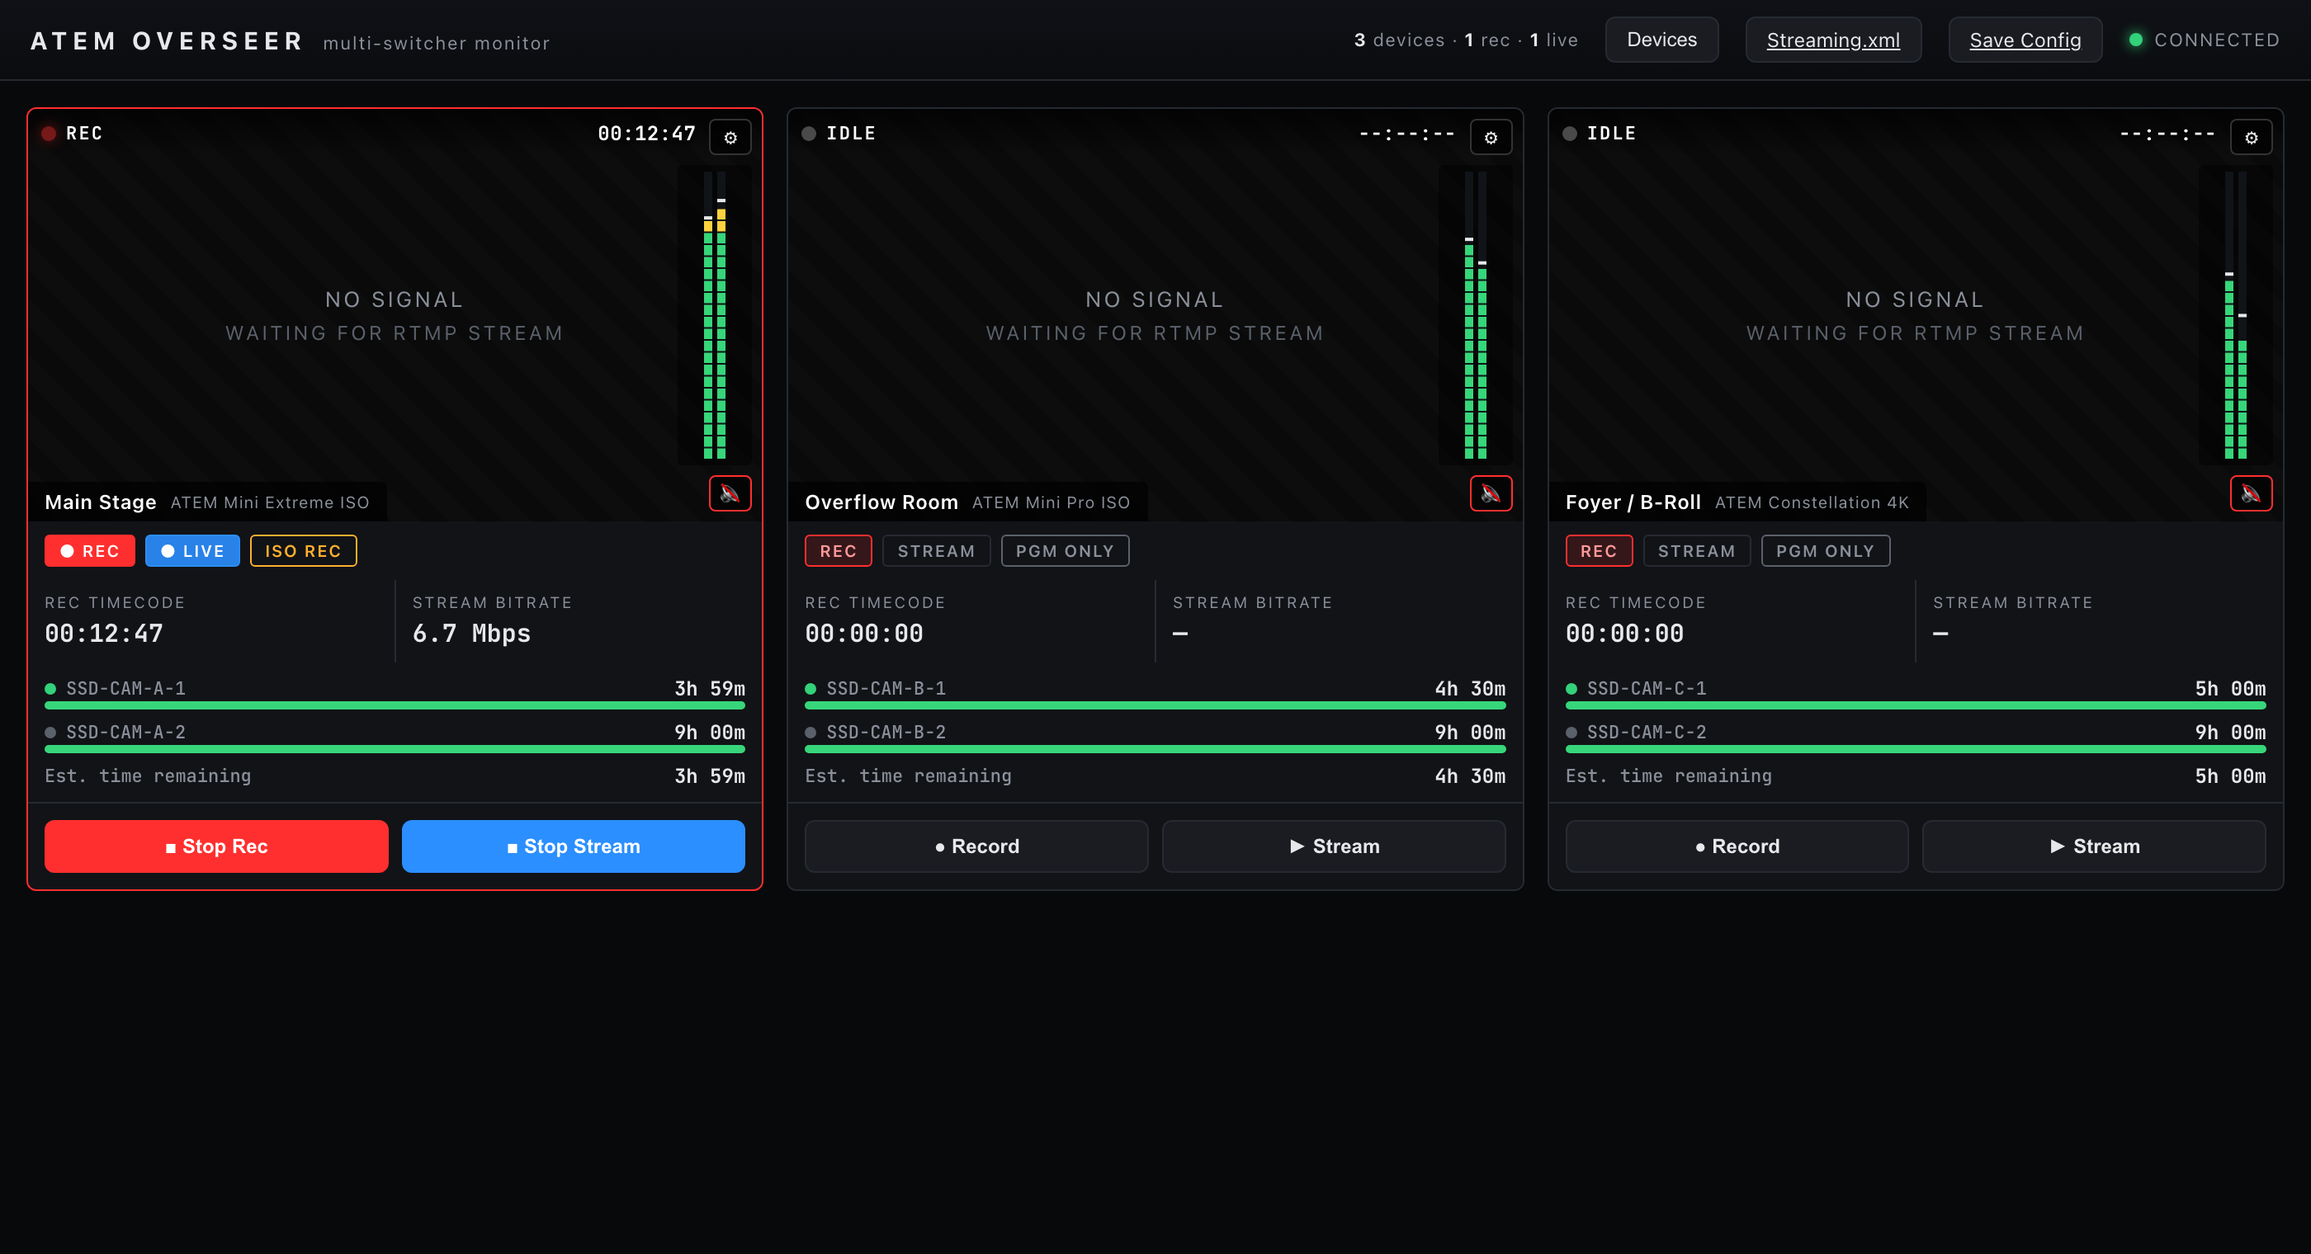
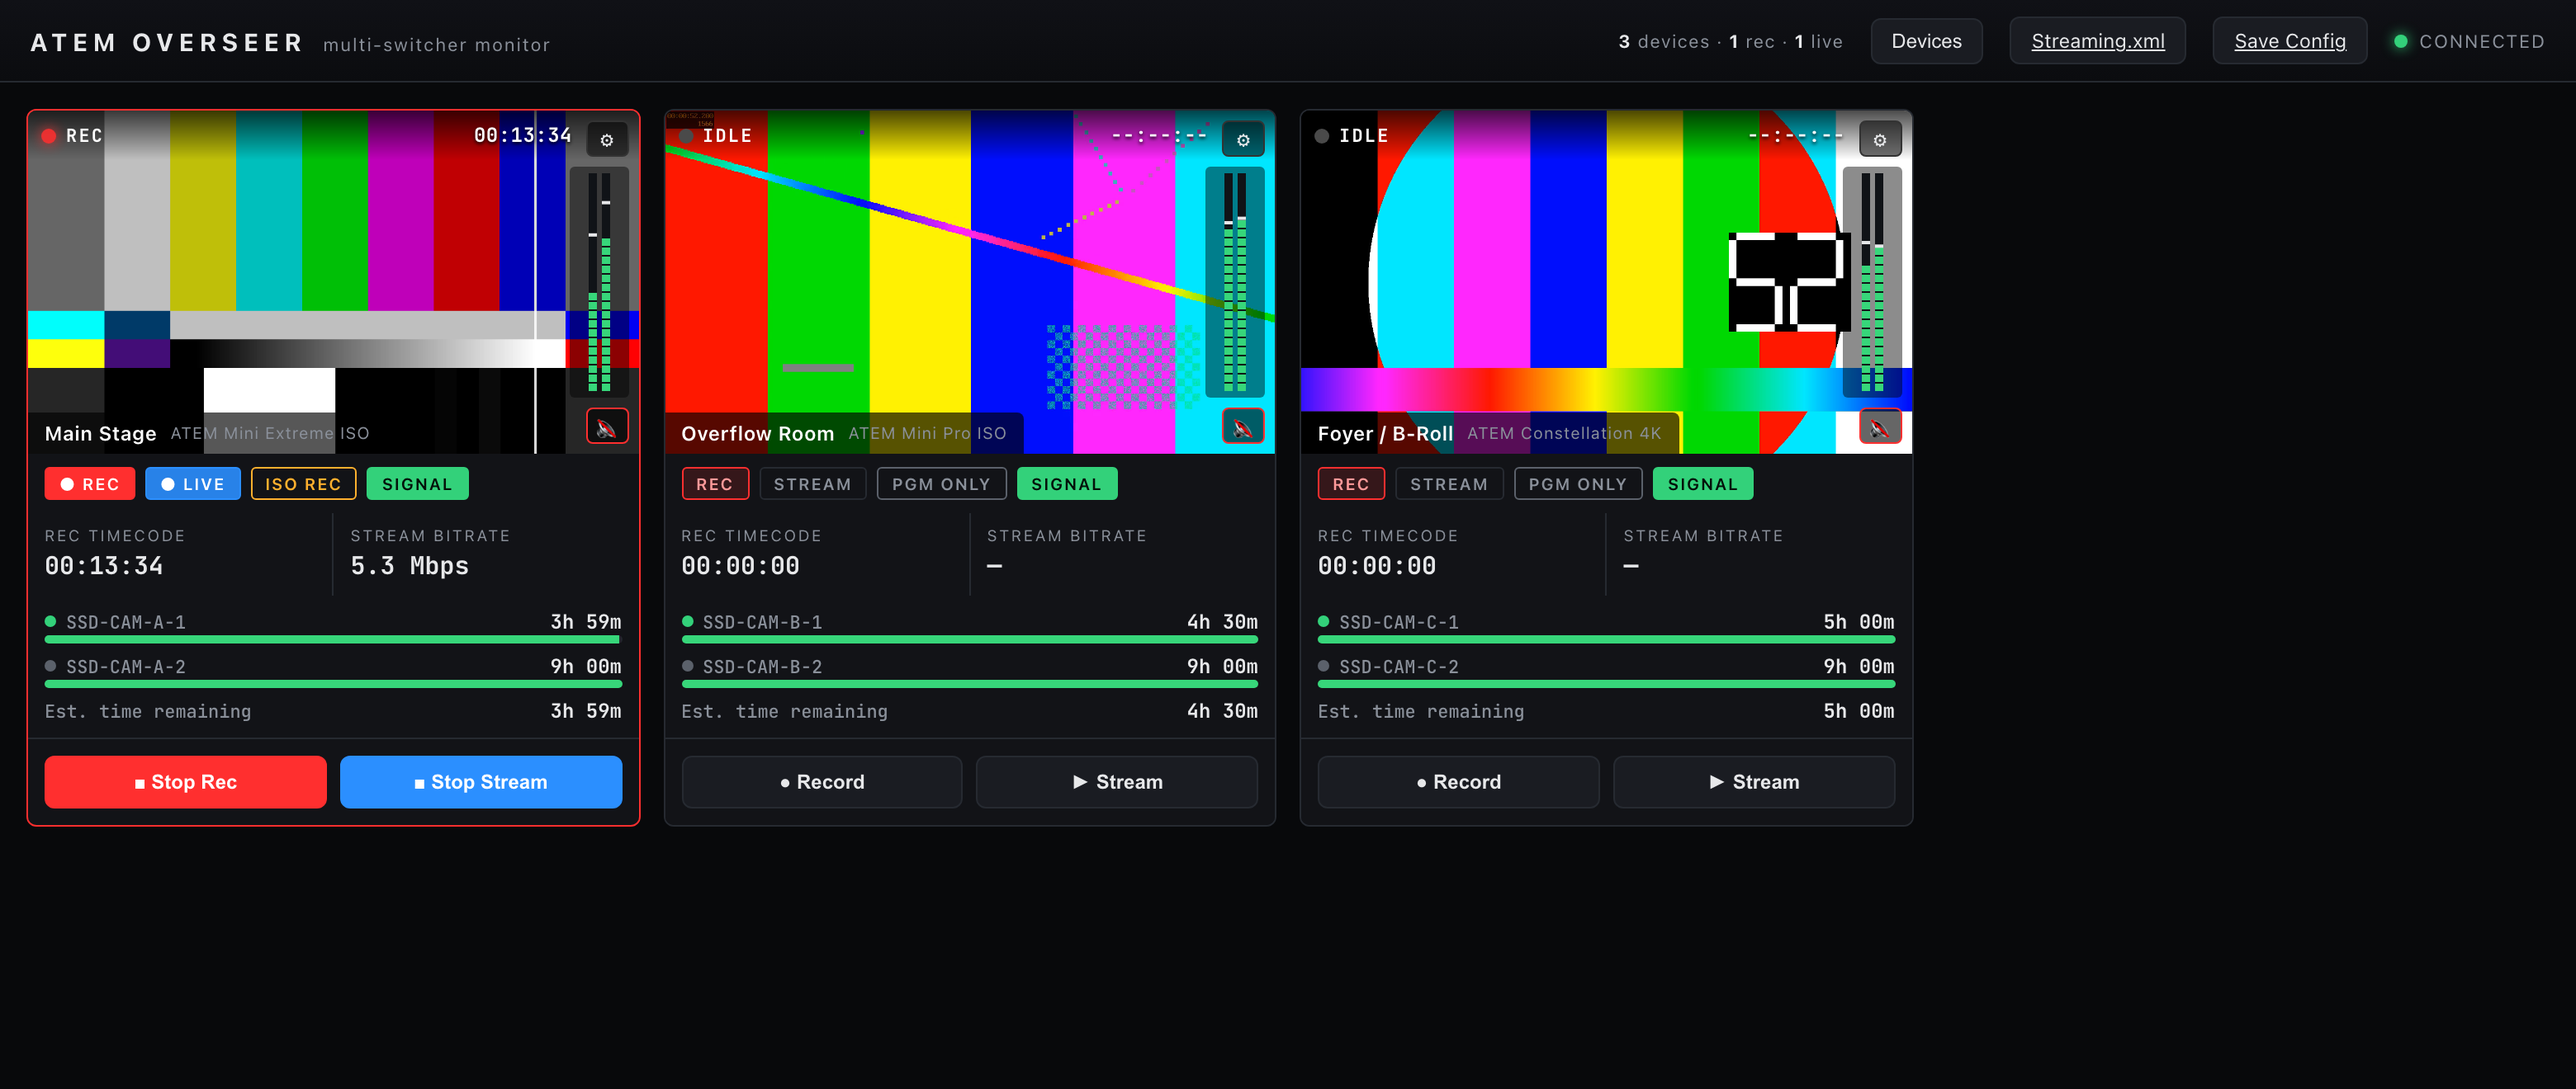
Document running the unsigned builds past Gatekeeper, SmartScreen and Defender
The releases are unsigned and unnotarized — that needs paid Apple and
Microsoft certificates this project doesn't carry — so every first launch
throws a warning the download page never explained.

Adds docs/UNSIGNED.md with the per-platform steps, the self-signing and
checksum-verification routes, and the Defender Firewall reset procedure
for when the allow prompt was dismissed and does not come back. The
README carries a short section pointing at it.

diff --git a/docs/UNSIGNED.md b/docs/UNSIGNED.md
@@ -1,0 +1,188 @@
+# Running unsigned Atem Overseer builds
+
+Everything this project releases is built and published unsigned. This page explains
+what each operating system will say, exactly how to get past it, and how to sign the
+artifacts yourself if you'd rather not click through warnings.
+
+## Why they're unsigned
+
+Clearing these warnings for redistribution costs money, not effort:
+
+| Platform | What's needed | Cost |
+|---|---|---|
+| macOS | Apple Developer Program + a *Developer ID Application* certificate, plus notarization of every build | $99/year |
+| Windows | An Authenticode code-signing certificate (OV, or EV to skip SmartScreen reputation-building) | ~$200–500/year |
+
+This project carries neither. Nothing is wrong with the downloads — the OS simply has
+no publisher identity to check them against, so it assumes the worst once and then
+remembers your answer.
+
+> If you'd rather not trust a stranger's binary at all, every release is reproducible
+> from source — see the build instructions in the README.
+
+## macOS — Gatekeeper
+
+macOS quarantines anything downloaded from a browser, then refuses to launch it because
+**"the developer cannot be verified"**. Any one of these clears it:
+
+**1. Right-click → Open** (simplest, per-app, once)
+
+Right-click (or Control-click) the app → **Open** → **Open** in the dialog. The plain
+double-click won't offer this — it has to be the context menu.
+
+**2. Clear the quarantine flag** (scriptable, good for deployment)
+
+```sh
+xattr -dr com.apple.quarantine "/Applications/Atem Overseer.app"
+```
+
+**3. Approve it after the fact**
+
+Launch it once, let macOS block it, then go to **System Settings → Privacy & Security**
+and click **Open Anyway** next to the message about the blocked app.
+
+### `.pkg` installers
+
+A `.pkg` from an unidentified developer is blocked the same way. Right-click → **Open**,
+or clear the flag on the installer itself before running it:
+
+```sh
+xattr -dr com.apple.quarantine ~/Downloads/<file>.pkg
+```
+
+### Apple Silicon and the `.zip` trap
+
+If you copy an app out of a `.zip` with Finder the quarantine flag comes with it. Prefer the
+`.dmg` or `.pkg`, or run the `xattr` command above after copying.
+
+## Windows — SmartScreen
+
+**"Windows protected your PC — Microsoft Defender SmartScreen prevented an
+unrecognised app from starting."** Click **More info**, confirm the publisher line reads
+*Unknown publisher*, then **Run anyway**.
+
+To clear the mark-of-the-web before running instead — useful when the block is silent
+rather than a prompt:
+
+```powershell
+Unblock-File .\<file>.exe
+```
+
+Or right-click the file → **Properties** → tick **Unblock** → **OK**. If you downloaded a
+`.zip`, **unblock the `.zip` first, then extract** — otherwise every extracted file
+inherits the flag and you'll be unblocking them one at a time.
+
+### Defender antivirus false positives
+
+Unsigned binaries that bundle a runtime occasionally get quarantined outright by
+Defender's heuristics rather than merely warned about. If the download vanishes from
+your Downloads folder, check **Windows Security → Virus & threat protection →
+Protection history** and choose **Restore**. Add an exclusion for the install folder if
+it keeps happening.
+
+## Windows — Defender Firewall
+
+Atem Overseer listens on the network, so the first time it starts Windows shows:
+
+> **Windows Defender Firewall has blocked some features of Atem Overseer**
+> Allow it to communicate on these networks: ☐ Private ☐ Public
+
+Tick **Private networks** — and **Domain networks** too if the machine is on a managed
+domain. Atem Overseer needs this to serve the dashboard and poll ATEM switchers on the LAN.
+
+If you deny it (or the prompt appears behind another window and times out), switchers stay greyed out and the dashboard won't load from another machine
+
+**Leave Public unticked** unless you know you need it — that profile covers untrusted
+networks like conference or hotel Wi-Fi.
+
+### If you already clicked Cancel
+
+The prompt does not come back. Fix it in **Windows Security → Firewall & network
+protection → Allow an app through firewall → Change settings**, find the entry, tick
+**Private**. If Atem Overseer isn't listed, **Allow another app…** → **Browse** to the `.exe`.
+
+Or from an elevated PowerShell:
+
+```powershell
+New-NetFirewallRule -DisplayName "Atem Overseer" -Direction Inbound -Program "C:\Path\To\Atem Overseer.exe" -Action Allow -Profile Private,Domain
+```
+
+To remove a bad rule and get the prompt back on next launch:
+
+```powershell
+Get-NetFirewallRule -DisplayName "*Atem Overseer*" | Remove-NetFirewallRule
+```
+
+### macOS and Linux firewalls
+
+macOS shows an equivalent one-off prompt — *"Do you want the application to accept
+incoming network connections?"* — click **Allow**. It's under **System Settings →
+Network → Firewall → Options** if you need to change it later. On Linux nothing prompts;
+if you run a firewall, open the ports yourself (`ufw allow <port>/tcp`).
+
+## Linux
+
+No signing gate. Make the binary executable if you took the tarball:
+
+```sh
+chmod +x ./atem-overseer
+```
+
+The `.deb` and `.rpm` packages are unsigned too, so your package manager may object:
+`sudo dpkg -i <file>.deb` or `sudo rpm -i --nosignature <file>.rpm`.
+
+## Signing it yourself
+
+### macOS — ad-hoc (local machine only)
+
+An ad-hoc signature stops the OS re-prompting on **your own machine**. It is **not**
+notarization and will do nothing for anyone else:
+
+```sh
+codesign --force --deep --sign - "/Applications/Atem Overseer.app"
+```
+
+Verify it took:
+
+```sh
+codesign -dv --verbose=4 "/Applications/Atem Overseer.app"
+spctl -a -vv "/Applications/Atem Overseer.app"   # still reports "rejected" — ad-hoc is not notarization
+```
+
+### macOS — real signing and notarization
+
+With an Apple Developer Program membership and a *Developer ID Application* certificate:
+
+```sh
+codesign --force --deep --options runtime --timestamp \
+  --sign "Developer ID Application: Your Name (TEAMID)" "<artifact>"
+xcrun notarytool submit "<artifact>.zip" --apple-id you@example.com \
+  --team-id TEAMID --password "app-specific-password" --wait
+xcrun stapler staple "<artifact>"
+```
+
+Note the **hardened runtime** (`--options runtime`) — notarization rejects builds without
+it, and a hardened build with an ad-hoc signature won't launch at all.
+
+### Windows — Authenticode
+
+```powershell
+signtool sign /fd SHA256 /tr http://timestamp.digicert.com /td SHA256 `
+  /f mycert.pfx /p <password> .\<file>.exe
+```
+
+An OV certificate still needs to build SmartScreen reputation over time; an EV
+certificate is trusted immediately. Neither is free.
+
+## Verifying a download
+
+Signing proves *who* built it; a checksum proves you got *what they built* — worth doing
+even unsigned. Compare against the release notes:
+
+```sh
+shasum -a 256 <file>        # macOS / Linux
+certutil -hashfile <file> SHA256   # Windows
+```
+
+You can also confirm the artifact came from this repo's CI by checking the release page it
+was downloaded from — GitHub shows the workflow run that produced each asset.

diff --git a/README.md b/README.md
@@ -184,6 +184,26 @@ from [Releases](https://github.com/stoatworks-labs/atem-overseer/releases), or s
 Portions of this project were written with AI assistance and reviewed by a human.
 Use at your own risk in production/live environments.
 
+## Unsigned builds — Gatekeeper, SmartScreen & Defender Firewall
+
+The release binaries are **not code-signed or notarized** — that needs paid Apple
+and Microsoft developer certificates this project doesn't carry. The downloads are
+fine; the OS just can't identify the publisher, so it warns you the first time.
+
+- **macOS** — *"cannot be opened because the developer cannot be verified"*.
+  Right-click the app → **Open** → **Open**, or clear the flag:
+  `xattr -dr com.apple.quarantine "/Applications/Atem Overseer.app"`
+- **Windows** — SmartScreen shows *"Windows protected your PC"* →
+  **More info** → **Run anyway**.
+- **Windows Defender Firewall** — first launch pops *"Allow Atem Overseer to communicate
+  on these networks"*. Tick **Private** (and **Domain** on a managed network) — Atem
+  Overseer needs it to serve the dashboard and poll ATEM switchers on the LAN. Deny it
+  and switchers stay greyed out and the dashboard won't load from another machine.
+- **Linux** — no signing gate.
+
+Per-artifact steps, self-signing, checksum verification and the Defender Firewall reset
+procedure: **[docs/UNSIGNED.md](docs/UNSIGNED.md)**.
+
 ## License
 
 MIT
